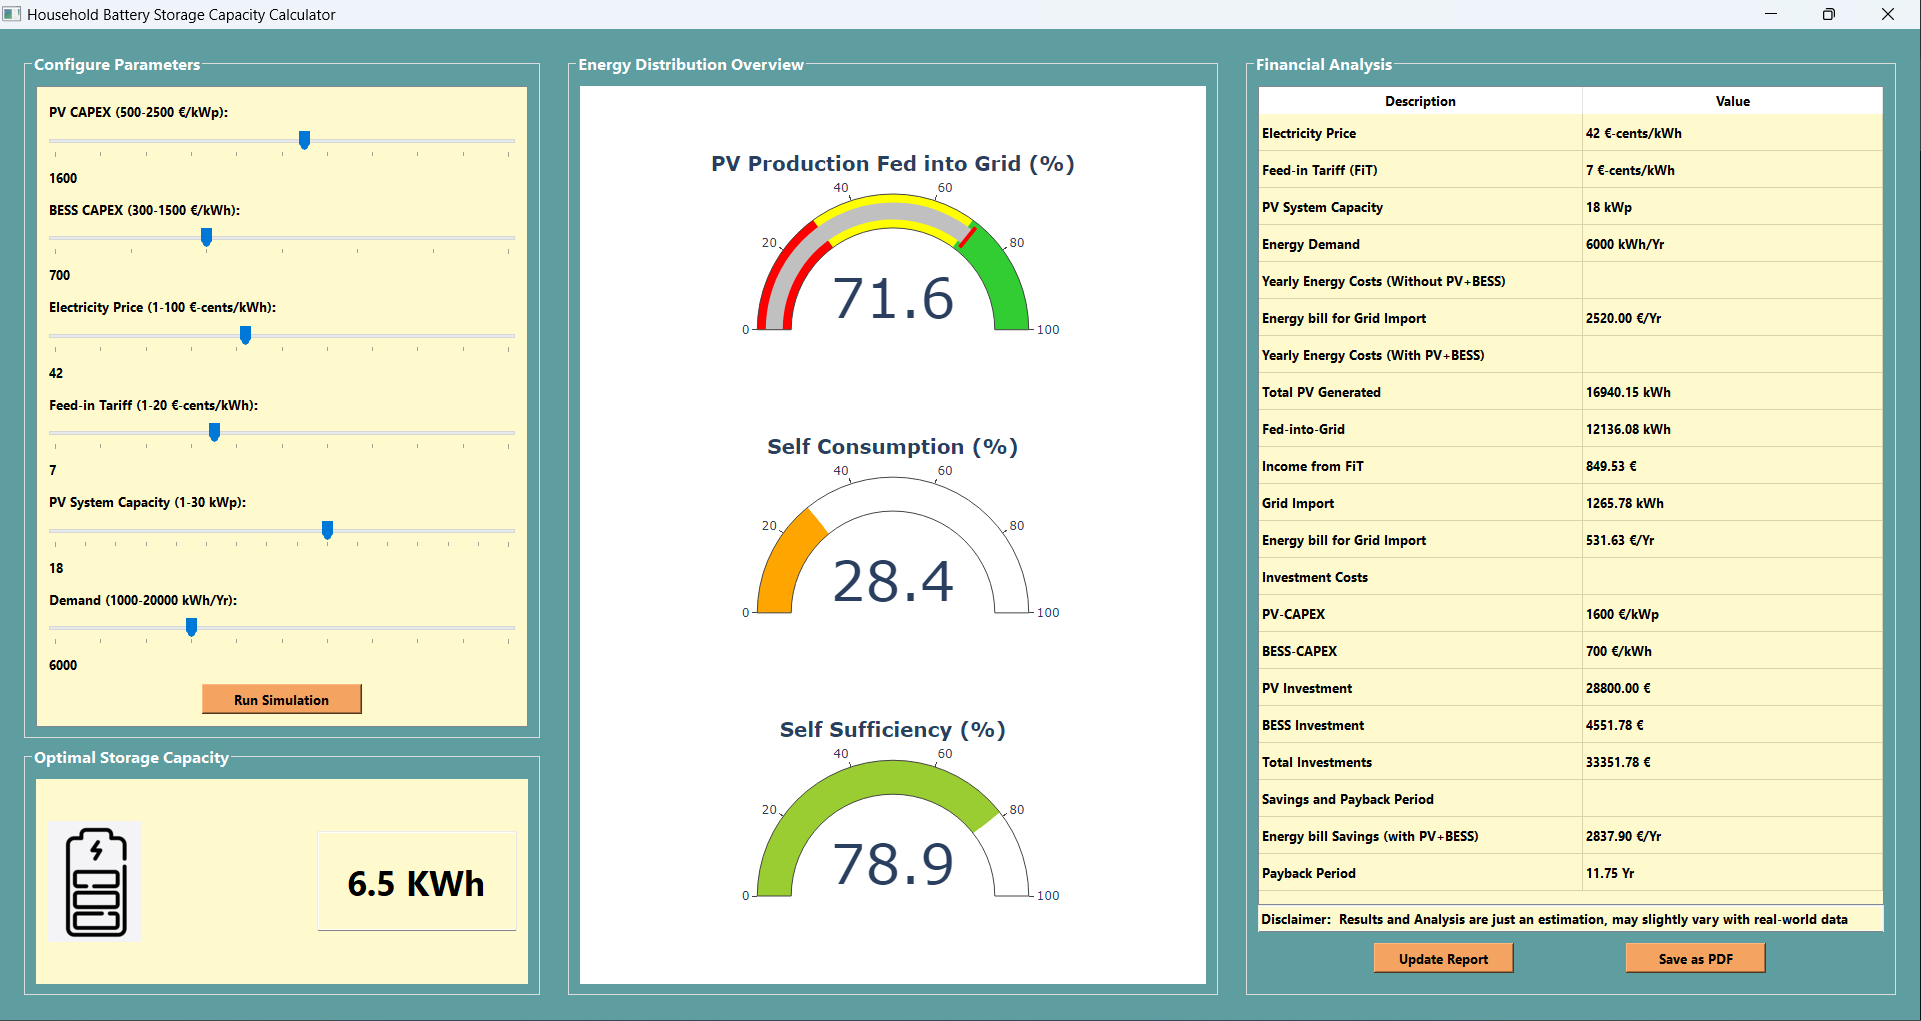
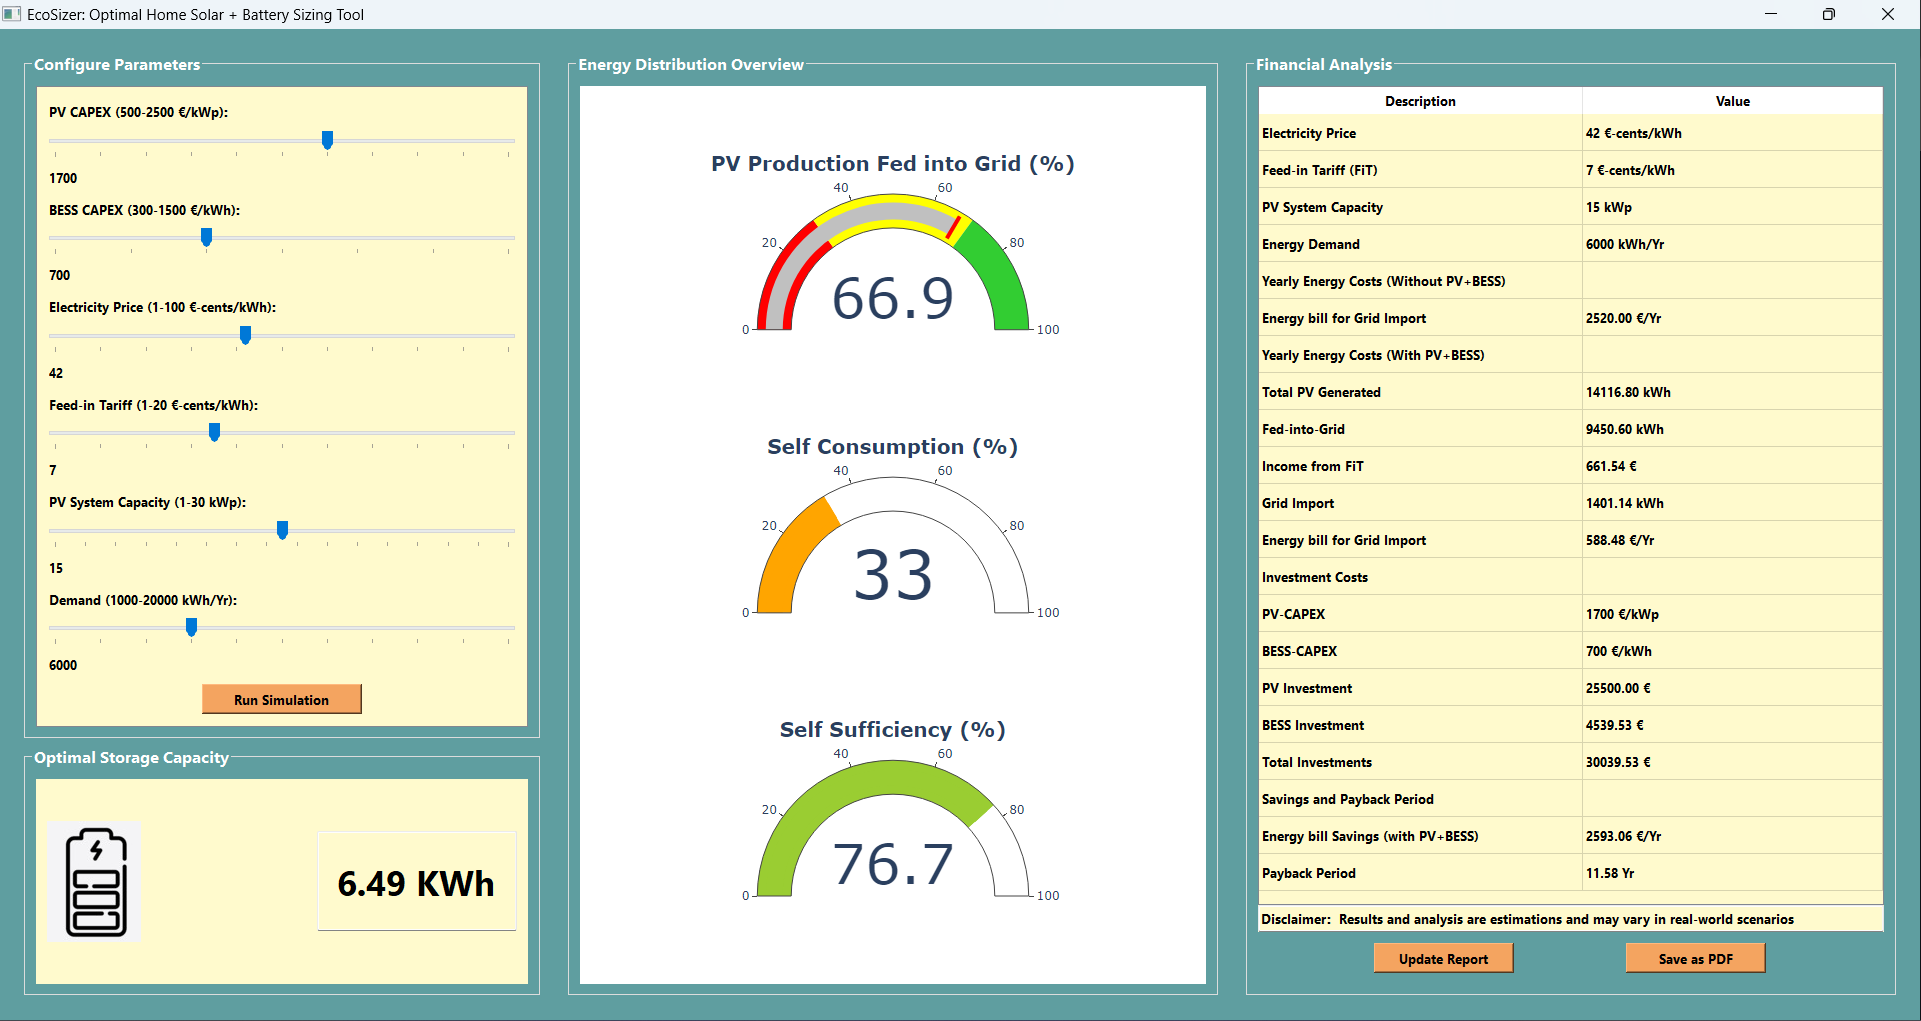
doc: Update texts and README

diff --git a/Scripts/BESS_GUI.py b/Scripts/BESS_GUI.py
@@ -45,7 +45,7 @@ class EnergyModelApp(QWidget):
 
     """
     def init_ui(self):
-        self.setWindowTitle('Household Battery Storage Capacity Calculator')
+        self.setWindowTitle('EcoSizer: Optimal Home Solar + Battery Sizing Tool')
         self.setGeometry(100, 100, 1600, 920)
 
         # Create a splitter to divide the main window into three sections
@@ -602,7 +602,7 @@ class EnergyModelApp(QWidget):
         # Calculate cost savings and payback period
         cost_savings = yearly_energy_costs_conventional - energy_bill_grid_import + income_from_fit
         payback_period = total_investments / cost_savings
-        Disclaimer_text = "Disclaimer:  Results and Analysis are just an estimation, may slightly vary with real-world data"
+        Disclaimer_text = "Disclaimer:  Results and analysis are estimations and may vary in real-world scenarios"
         
         data = [
         ("Electricity Price", f"{electricity_price} €-cents/kWh"),

diff --git a/Scripts/PV_BESS_GUI.py b/Scripts/PV_BESS_GUI.py
@@ -45,7 +45,7 @@ class EnergyModelApp(QWidget):
 
     """
     def init_ui(self):
-        self.setWindowTitle('Household PV+BESS Capacity Calculator')
+        self.setWindowTitle('EcoSizer: Optimal Home Solar + Battery Sizing Tool')
         self.setGeometry(100, 100, 1600, 920)
 
         # Create a splitter to divide the main window into three sections
@@ -612,7 +612,7 @@ class EnergyModelApp(QWidget):
         # Calculate cost savings and payback period
         cost_savings = yearly_energy_costs_conventional - energy_bill_grid_import + income_from_fit
         payback_period = total_investments / cost_savings
-        Disclaimer_text = "Disclaimer:  Results and Analysis are just an estimation, may slightly vary with real-world data"
+        Disclaimer_text = "Disclaimer:   Results and analysis are estimations and may vary in real-world scenarios"
         
         data = [
         ("Electricity Price", f"{electricity_price} €-cents/kWh"),

diff --git a/README.md b/README.md
@@ -40,13 +40,18 @@ Limitations:
 
 - Maximum PV capacity considered is up to 30 kWp, catering to typical household scenarios.
 - The PV feed-in profile is based on the location from the central part of Germany, impacting the tool's accuracy in regions with      significantly different solar profiles.
+- In the PV+BESS model, the maximum PV capacity is dependent on the feed-in tariff (FiT). If FiT is 8 and above, the maximum capacity is 10 kWp; otherwise, it is capped at 30 kWp, following amendments to the EEG considering partial feed-in.
+- The tool assumes a system lifetime of 25 years for PV and 10 years for Battery Storage.
+- The battery efficiency is set at 95% in the calculations.
+
 
 
 ## Environment and Dependencies
 
 To set up the environment for running the tool, follow these steps:
 
-1. **Create New Environment**
+1. **Create New Environment:**
+
     Creating a new environment is a good practice to manage dependencies and isolate your project. THe following link helps you with all the steps in order to create a new environment: https://realpython.com/python-virtual-environments-a-primer/
 
 2. **Install Dependencies:**
@@ -85,7 +90,7 @@ Thank you for considering contributing to the Household Battery Storage Capacity
 If you find this tool helpful in your work, please consider citing the following:
 
 ```
-@software{GUI: Optimal Home Storage Calculator,
+@software{EcoSizer: Optimal Home Solar + Battery Sizing Tool,
   author={Jayasurya Vardhan, Pujari},
   url={https://github.com/Jayasurya-Vardhan/Storage_optimization_Tool},
   year={2024},
@@ -100,14 +105,3 @@ If you find this tool helpful in your work, please consider citing the following
 }
 
 ```
-
-
-<!-- ## Importance of Optimal Sizing
-
-Determining the optimal capacities is crucial for maximizing these benefits. This tool aims to assist users in calculating the optimal PV+BESS and only storage capacity based on various parameters. -->
-
-
-
-
-<!-- 
-<p align="justify"> The EcoSizer is a Python application based on an OEMOF Storage_Investment optimization model, meticulously crafted to assist Homeowners and Installers in estimating the capacity of Solar and battery storage systems within households. This tool serves as a valuable asset, simplifying decision-making processes by providing comprehensive insights into energy distribution, financial analysis, and determining the optimal capacities. Whether you are planning to enhance energy independence, reduce costs, or contribute to environmental sustainability, this calculator empowers users to make informed choices by customizing parameters to suit their unique needs and preferences. </p>\n -->
